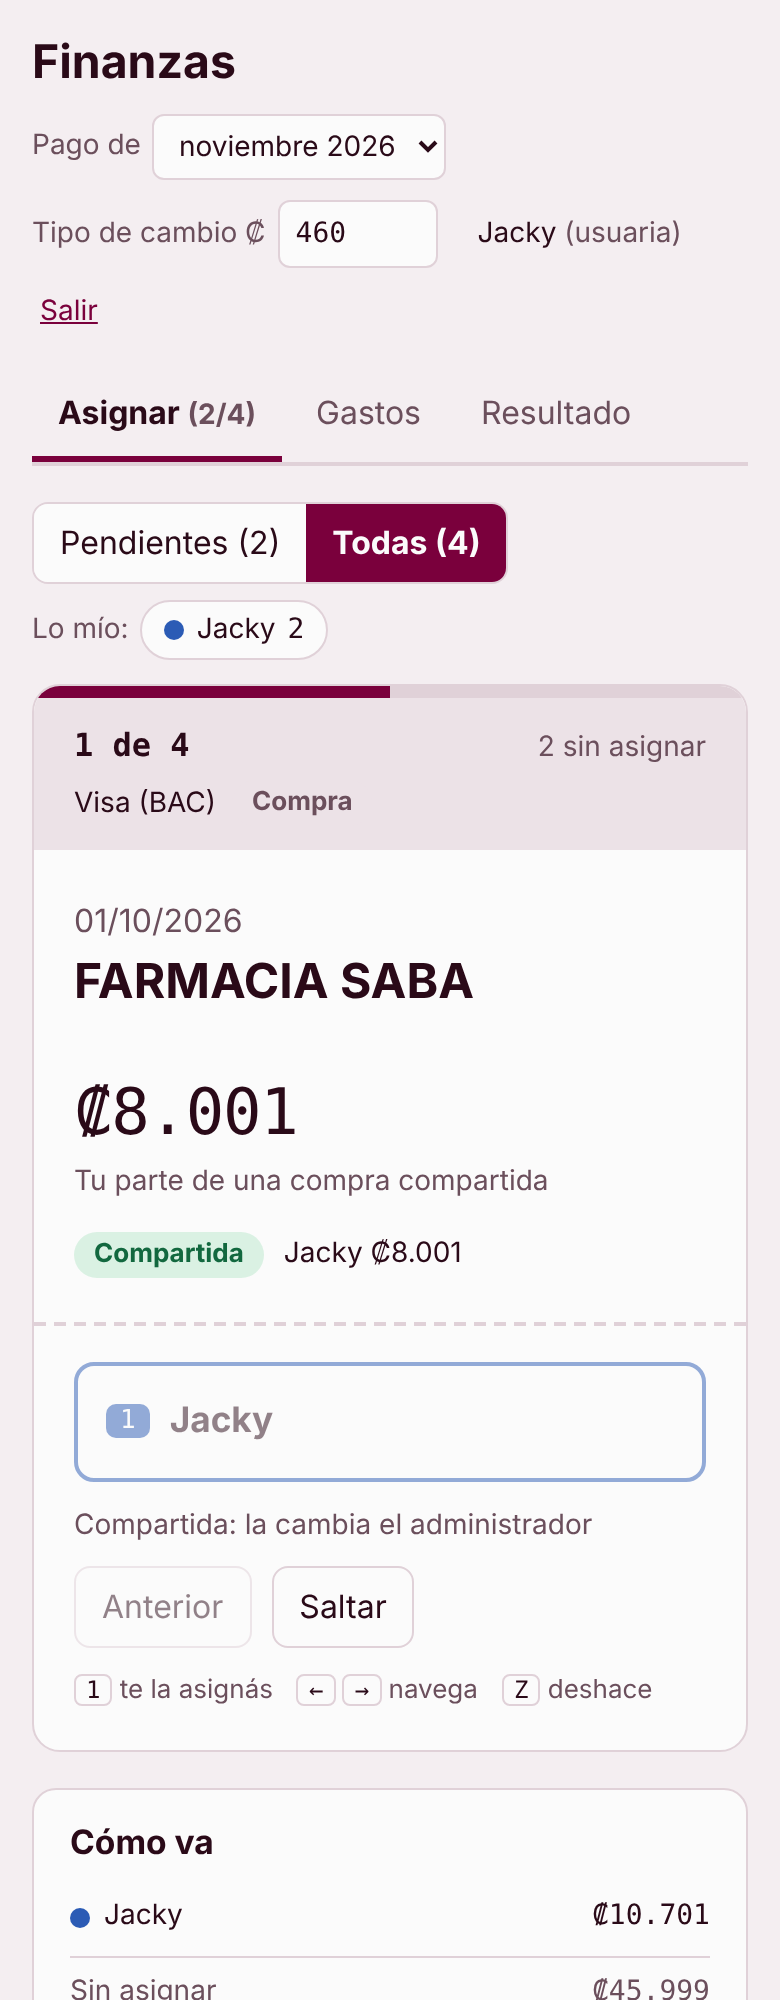
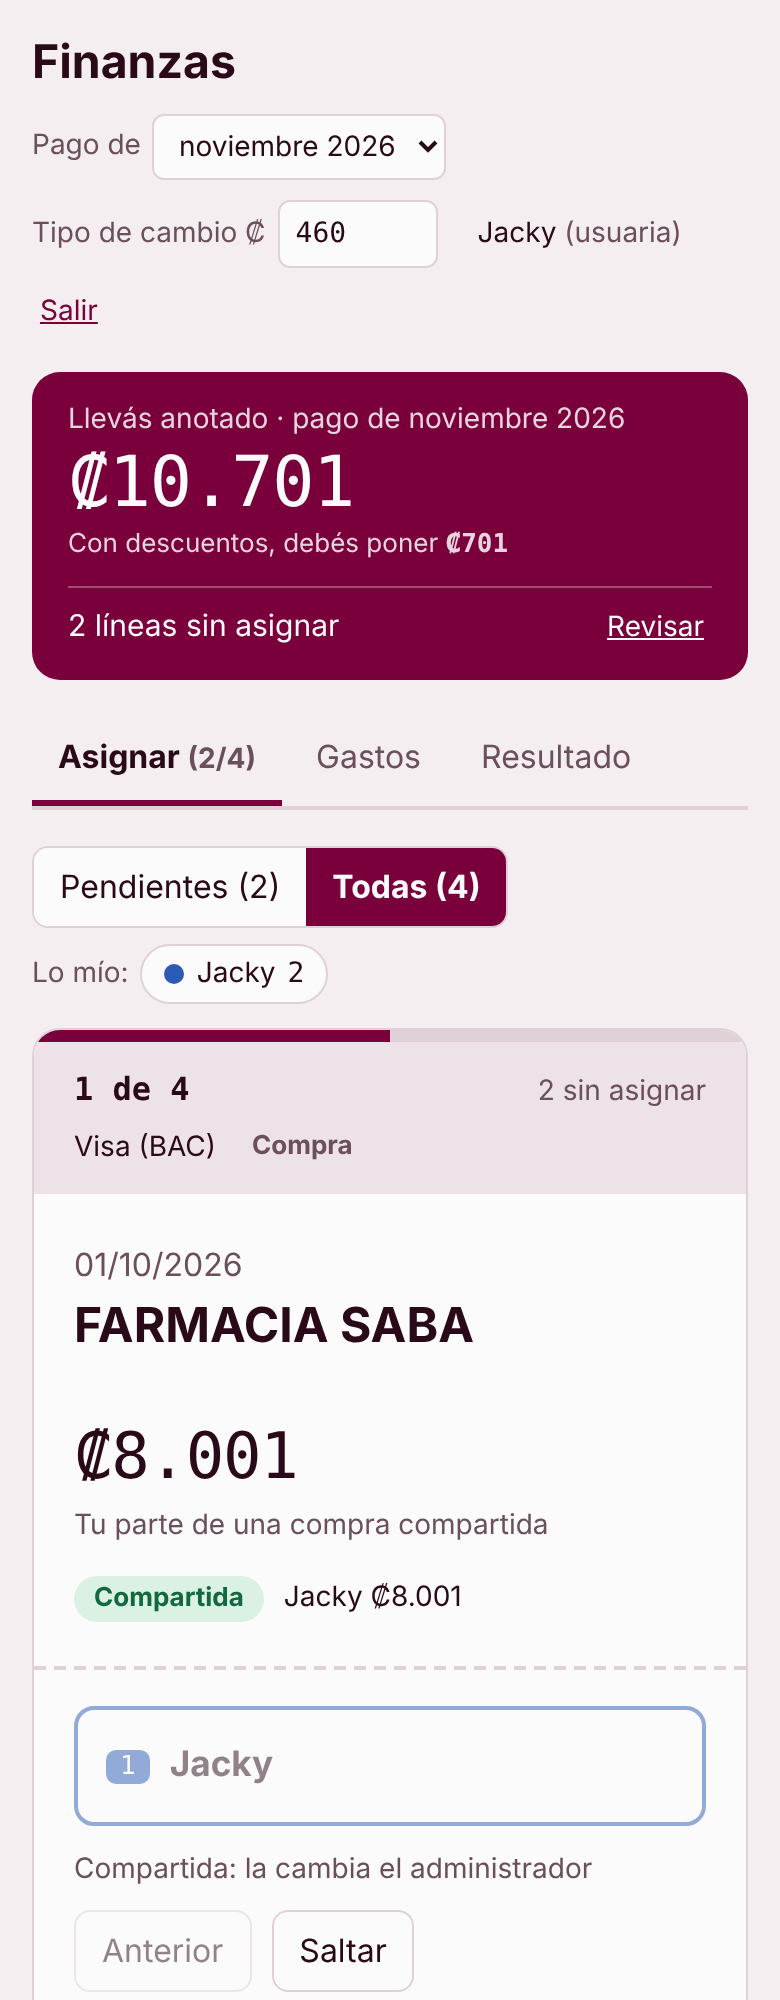
Arriba de todo: lo que llevás anotado; el administrador ve también el total del pago
Claude-Session: https://claude.ai/code/session_01YL3irhV46c8R97aLkmPyE2

diff --git a/index.html b/index.html
@@ -137,6 +137,12 @@ kbd.k{font:500 .75rem var(--mono);border:1px solid var(--line);border-radius:4px
 .tally .trow:hover{background:var(--sunk)}
 .queue.pq{max-height:420px;overflow-y:auto}
 .queue button.on{background:var(--sunk);font-weight:700}
+.hero{background:var(--accent);color:var(--accent-ink);border-radius:14px;padding:14px 18px;display:grid;gap:2px;min-width:0}
+.hero .lbl{font-size:.875rem;opacity:.85}
+.hero .big{font-family:var(--mono);font-weight:500;font-size:clamp(2rem,9vw,2.9rem);letter-spacing:-.02em;line-height:1.1;overflow-wrap:anywhere}
+.hero .sub{font-size:.8125rem;opacity:.85}
+.hero .tot .sub{font-family:var(--body)}.hero .tot strong{font-size:1.125rem}
+.hero .tot{display:flex;justify-content:space-between;gap:10px;flex-wrap:wrap;align-items:baseline;border-top:1px solid color-mix(in srgb,currentColor 30%,transparent);margin-top:8px;padding-top:8px;font-size:.9375rem}
 .keys{color:var(--muted);font-size:.8125rem;display:flex;flex-wrap:wrap;gap:4px 12px}
 /* Gastos */
 .expform{display:grid;grid-template-columns:repeat(auto-fit,minmax(150px,1fr));gap:12px}
@@ -612,12 +618,28 @@ function render(){
       <span class="small">${h(S.perfil.nombre||S.sesion.user.email)} <span class="muted">(${esAdmin()?"administrador":"usuaria"})</span></span>
       <button class="link small" data-act="salir">Salir</button>
     </div></header>
+    ${heroHtml()}
     <nav class="steps" aria-label="Secciones">${tabs().map(([k,l])=>`<button data-act="go" data-v="${k}" class="${ui.view===k?"on":""}" ${ui.view===k?'aria-current="page"':""}>${l}${k==="assign"&&q_.length?` <span class="small muted">(${q_.length-left}/${q_.length})</span>`:""}</button>`).join("")}</nav>
     ${cerrado()?`<div class="banner"><span>Este mes está cerrado: solo se puede ver.</span>${esAdmin()?'<button data-act="reabrir">Reabrir el mes</button>':""}</div>`:""}
     <main id="view">${({load:viewLoad,review:viewReview,assign:viewAssign,exp:viewExpenses,result:viewResult,people:viewPeople,access:viewAccess,log:viewLog}[ui.view]||viewAssign)()}</main>`;
   setEstado();
   if(aid){const el=document.getElementById(aid);if(el)el.focus();}
   renderToast();
+}
+/* Control del gasto: lo que lleva anotado quien abre la app, siempre a la vista. El administrador ve además el total del pago. */
+function heroHtml(){
+  const id=yo();if(!id||!S.personas.some(p=>String(p.id)===id))return "";
+  const T=totales(),d=T.per[id]||{total:0,disc:0};
+  const fut={};for(const t of S.tx)if(t.origen==="manual"&&t.mes>S.mes&&!t.conc){const m=montos(t)[id];if(m)fut[t.mes]=(fut[t.mes]||0)+m;}
+  const futTxt=Object.keys(fut).sort().map(m=>`${money(fut[m])} para el pago de ${h(mesLabel(m))}`).join(" · ");
+  const pend=cola().filter(t=>!asignada(t)).length;
+  return `<section class="hero" aria-label="Lo que llevás anotado">
+    <span class="lbl">Llevás anotado · pago de ${h(mesLabel(S.mes))}</span>
+    <span class="big num">${money(d.total)}</span>
+    <span class="sub">${d.disc?`Con descuentos, debés poner <strong class="num">${money(d.total-d.disc)}</strong>`:"&nbsp;"}${futTxt?`${d.disc?" · ":""}Además ${futTxt}`:""}</span>
+    ${esAdmin()?`<div class="tot"><span>Total del pago</span><span class="num"><strong>${money(T.all)}</strong>${T.none?` <span class="sub">· sin asignar ${money(T.none)}</span>`:""}</span></div>`
+      :pend?`<div class="tot"><span>${pend===1?"1 línea sin asignar":`${pend} líneas sin asignar`}</span><button class="link small" data-act="go" data-v="assign" style="color:inherit">Revisar</button></div>`:""}
+  </section>`;
 }
 function renderToast(){
   const s=document.getElementById("toastSlot");
